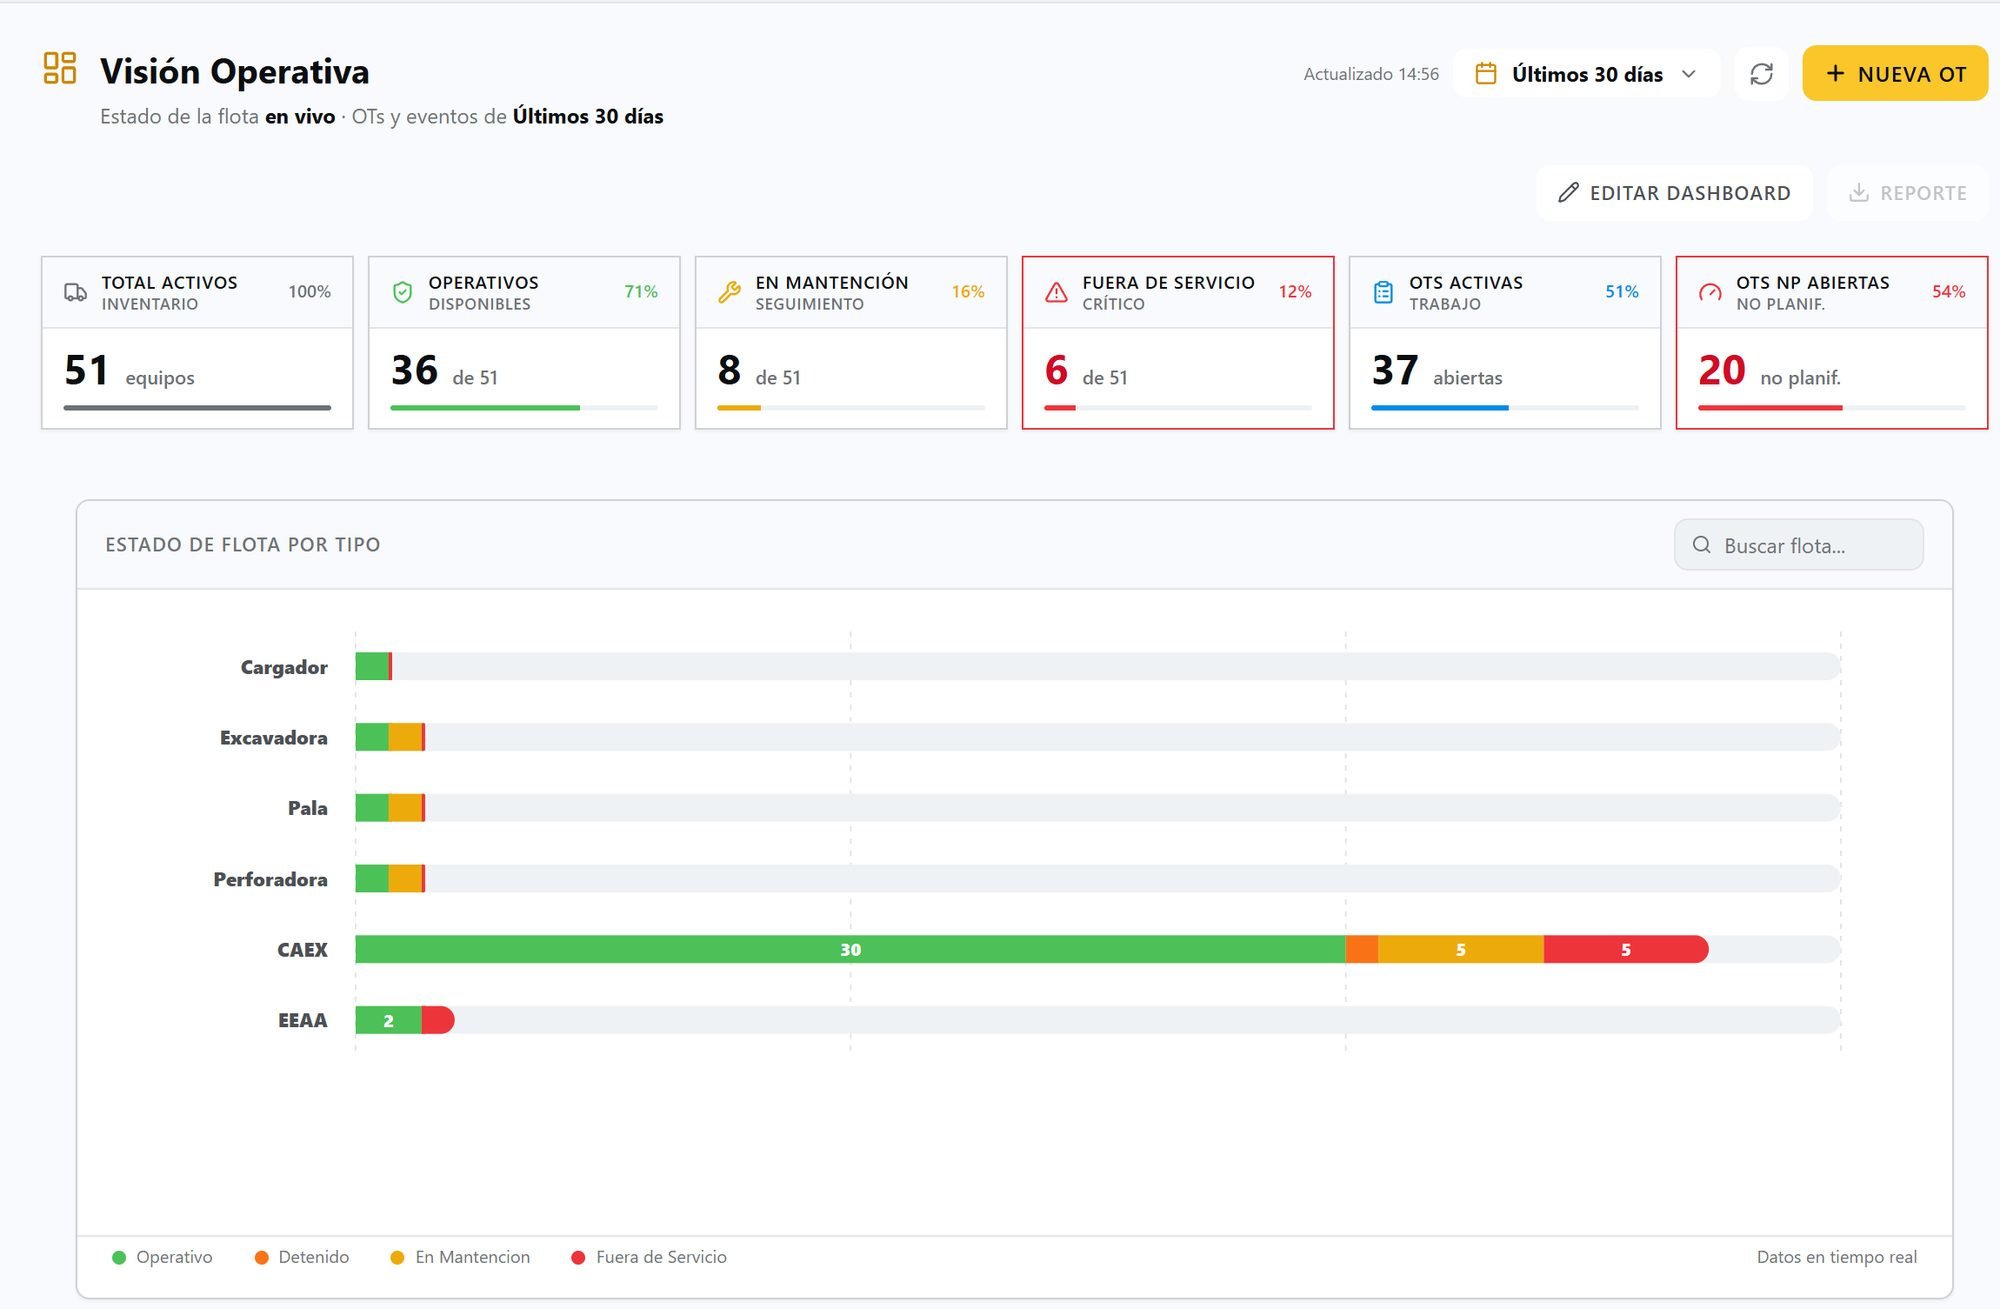
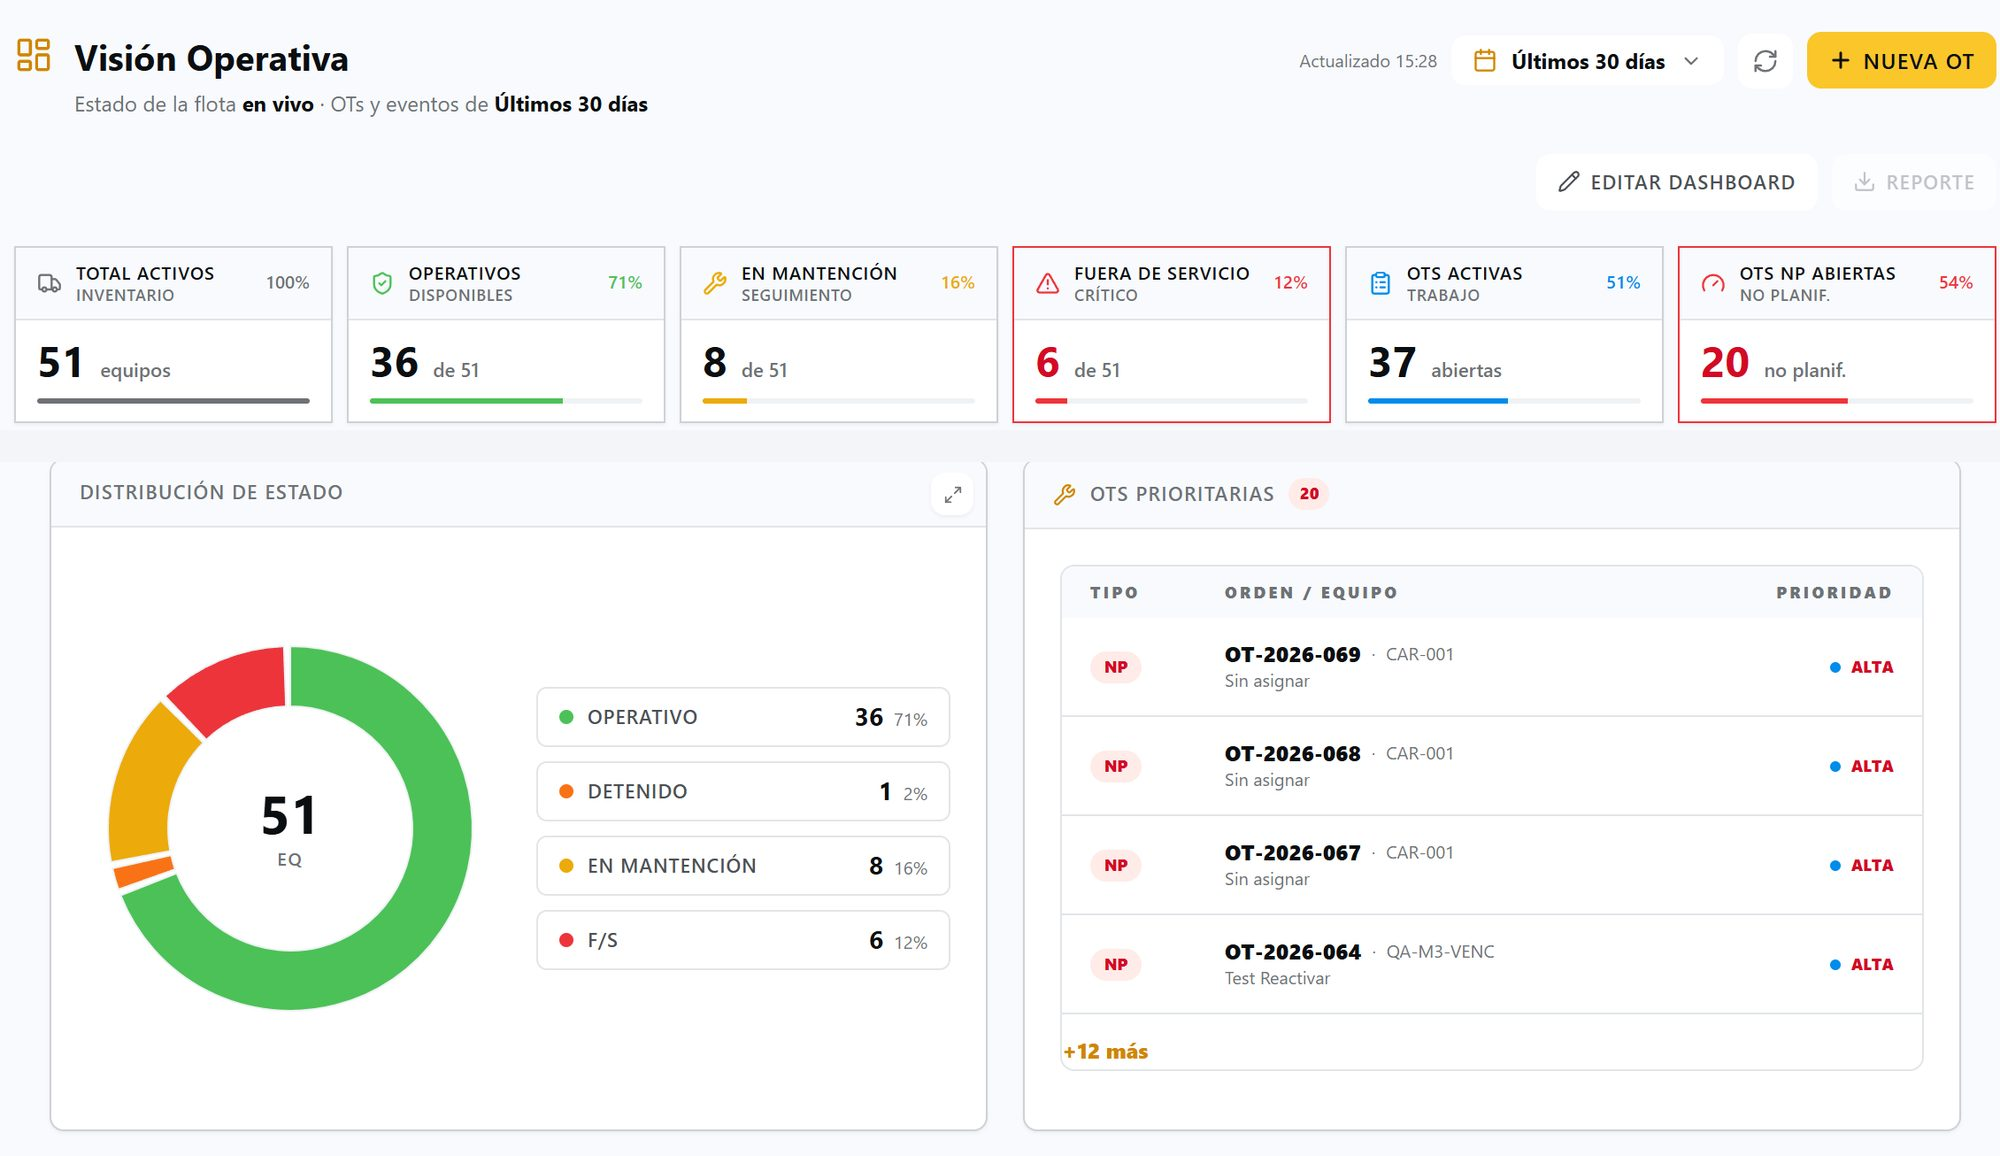
Panel sin widget CAEX (KPIs + estados + OTs prioritarias) y EDE con recorte exacto
- panel-operacional.jpg: composición Visión Operativa + distribución de estado +
  OTs prioritarias (el dashboard es configurable; se removió el widget de flota
  por tipo dominado por CAEX)
- ede.jpg: recorte por bounding box del card completo (submenú e historial
  enteros) con proporción 1.052 → columnas de la sección cierran al ras (delta 0)

diff --git a/swc/app/producto/page.tsx b/swc/app/producto/page.tsx
@@ -140,22 +140,21 @@ export default function ProductoPage() {
             <p className="font-mono text-xs text-cyan-300">PANTALLA REAL · DATOS DEMO</p>
           </Reveal>
           <p className="mt-4 max-w-[58ch] text-base font-light leading-relaxed text-white/80">
-            Estado de la flota por tipo, equipos operativos, mantenciones y órdenes de trabajo
-            activas en una sola vista. Lo que ves aquí es el panel real de sworkc con datos de
-            demostración.
+            Indicadores de flota, distribución de estados y OTs prioritarias en una sola vista.
+            Lo que ves aquí es el panel real de sworkc con datos de demostración.
           </p>
 
           <Reveal variant="up" delay={100} as="div" className="mt-10">
             <div className="overflow-hidden rounded-xl border border-white/15 bg-[#0b1020] shadow-[0_40px_120px_rgba(0,0,0,0.5)]">
               <div className="flex items-center gap-2 border-b border-white/10 px-4 py-2.5 font-mono text-[11px] text-white/50">
                 <span className="h-2 w-2 rounded-full bg-cyan-400" aria-hidden />
-                visión operativa — flota · estados · OTs
+                visión operativa — flota · estados · OTs prioritarias
               </div>
               <Image
                 src="/img/producto/panel-operacional.jpg"
-                alt="Panel operacional de sworkc: indicadores de flota, equipos operativos, mantenciones y OTs activas con datos de demostración"
+                alt="Panel operacional de sworkc: indicadores de flota, distribución de estados y OTs prioritarias con datos de demostración"
                 width={2000}
-                height={1309}
+                height={1156}
                 className="w-full"
               />
             </div>
@@ -173,15 +172,15 @@ export default function ProductoPage() {
             <p className="font-mono text-xs text-muted-foreground">KPIS · 4 / PERÍODOS · 7-30-90 D</p>
           </Reveal>
 
-          <div className="mt-10 grid items-start gap-10 lg:grid-cols-[minmax(0,1.15fr)_minmax(0,1fr)] lg:items-stretch lg:gap-14">
+          <div className="mt-10 grid items-start gap-10 lg:grid-cols-[minmax(0,1.15fr)_minmax(0,1fr)] lg:gap-14">
             <Reveal variant="left" as="div" className="flex flex-col">
-              <div className="flex-1 overflow-hidden rounded-xl border border-border shadow-[var(--shadow-lg)]">
+              <div className="overflow-hidden rounded-xl border border-border shadow-[var(--shadow-lg)]">
                 <Image
                   src="/img/producto/ede.jpg"
                   alt="Expediente Digital del Equipo en sworkc: KPIs de disponibilidad, MTTR, MTBF y MTBS, últimas detenciones, repuestos e historial de cambios"
                   width={2000}
-                  height={1723}
-                  className="h-full w-full object-cover object-top"
+                  height={1901}
+                  className="w-full"
                 />
               </div>
               <p className="mt-3 font-mono text-[11px] text-muted-foreground">
